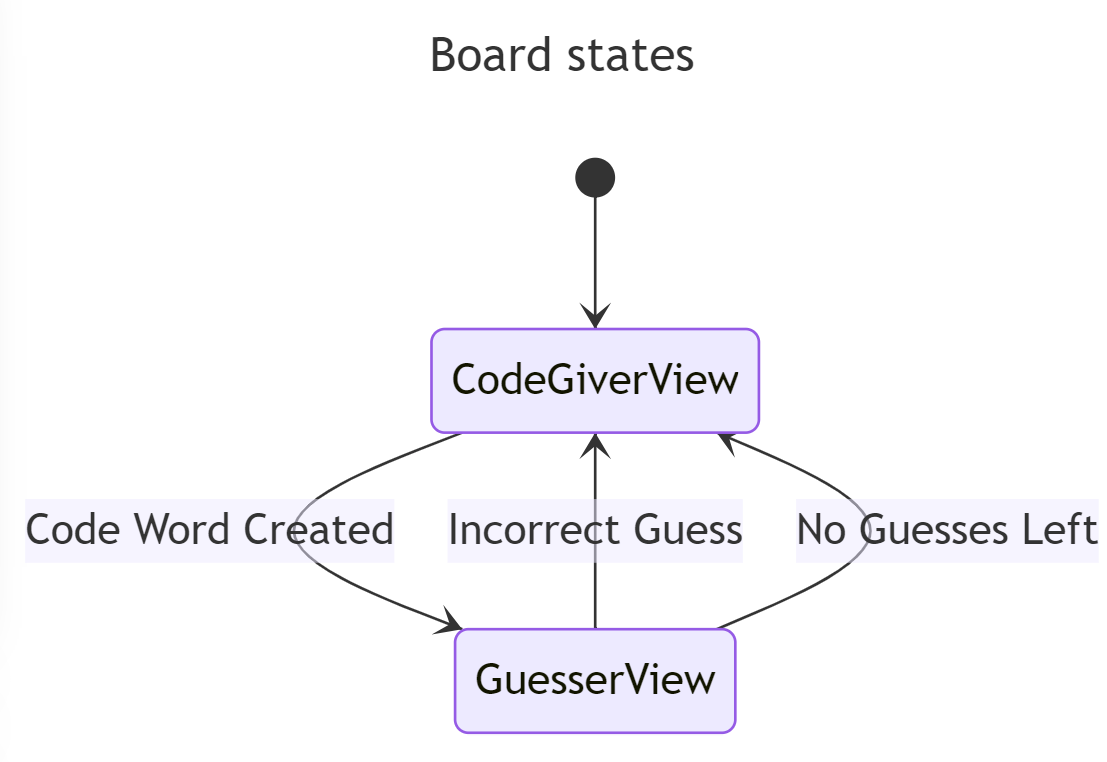
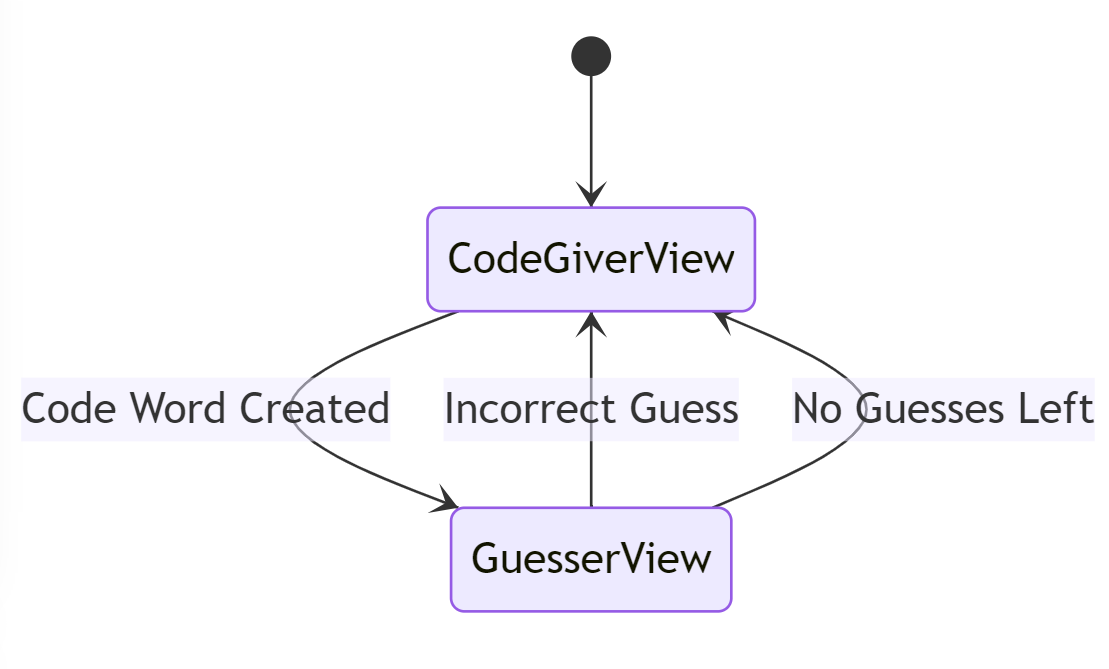
Redundant titles and formatting for terminal commands

diff --git a/README.md b/README.md
@@ -11,11 +11,17 @@ Codenames is a board/card game where two teams, red and blue, compete against ea
 - Understanding the process of refactoring code to make it more readable and easy to debug
 
 ## Running the Game
-- `python3 main.py`
+ ```sh
+python3 main.py
+ ```
 
 ## Testing the Game
-- `cd tests`
-- `pytest -v`
+```sh
+cd tests
+```
+```sh
+pytest -v
+```
 
 ## Playing the Game
 - Go get your friends. You need at least 4 people to play this game and the more the merrier.
